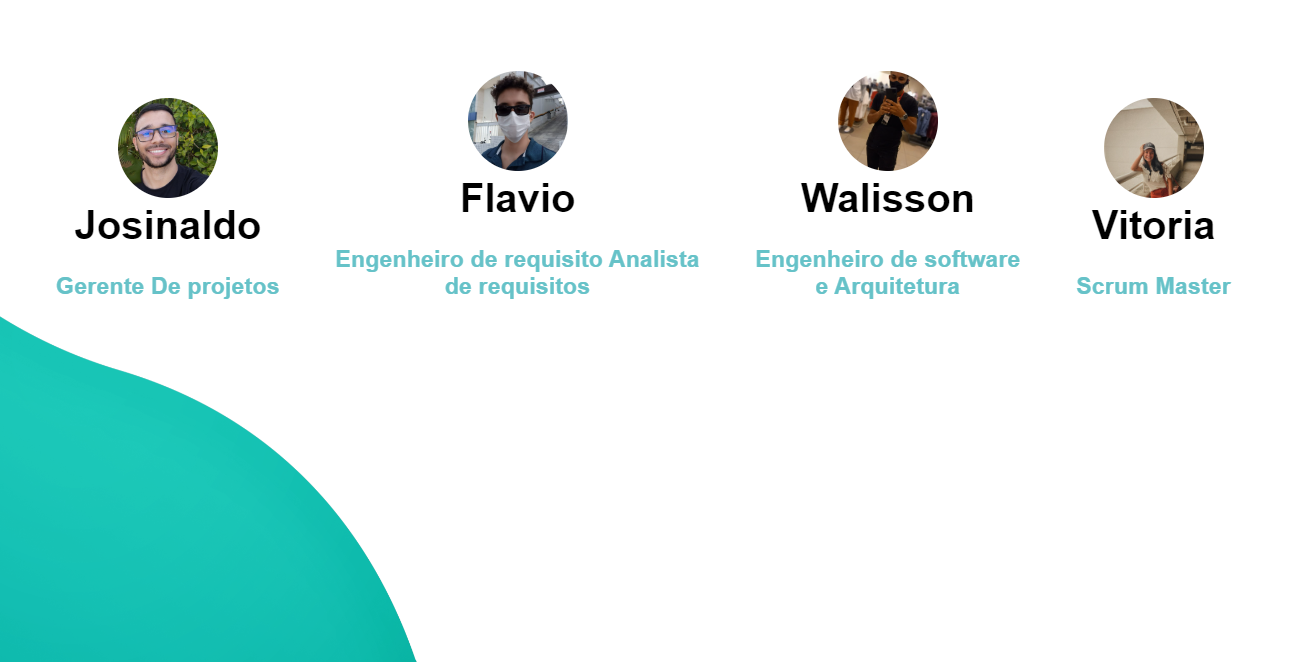
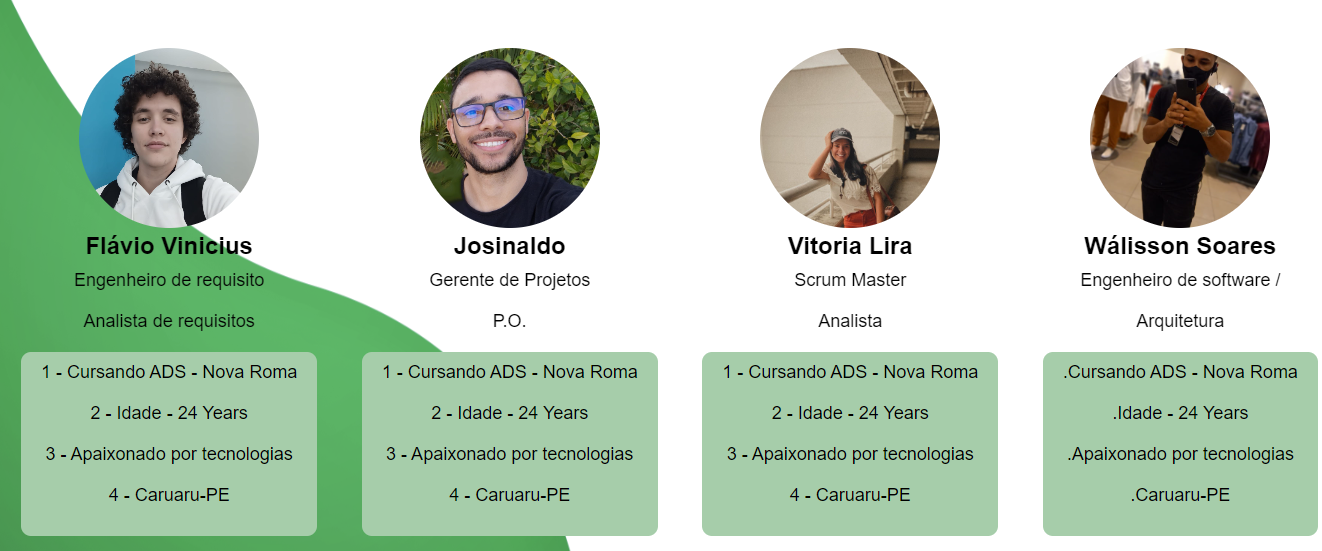
Add files via upload

diff --git a/Projeto/sobre.html b/Projeto/sobre.html
@@ -7,6 +7,7 @@
     <meta name="viewport" content="width=device-width, initial-scale=1.0">
     <link rel="stylesheet" href="css/home.css">
     <link rel="stylesheet" href="css/style.css">
+    <link rel="stylesheet" href="css/equipe.css">
     <link rel="shortcut icon" href="img/slot.svg" type="image/x-icon">
     <title>Denúncia Certa</title>
 
@@ -38,27 +39,49 @@
         </div>
     </div>
     <div tabindex="0" class="content" onfocus="closeSidebar()" id="content">
-        <div class="sobre">
-            <h1>Sobre nós</h1>
-    <h3>Somos uma equipe acadêmica da Faculdade Nova Roma, Unidade Caruaru, do Curso de Análise e Desenvolvimento de Sistema, com o projeto da (ODS) Objetivos de Desenvolvimento Sustentável para a disciplina de Projeto Integrador, com a supervisão do Profª. Geovane com objetivo de desenvolver um projeto que ofereça um lugar publico de denúncias anonimas. </h3>
-</div>
-<div class="valores">
-    <h1>Missão</h1>
-    <h3>Prestar serviço no que diz respeito ao monitoramento do uso eficiente dos recursos hídricos, tal como a manutenção da qualidade da água disponibilizada à população, acompanhamento dos agentes poluentes e etc. Priorizando o atendimento aos nossos clientes, a valorização dos nossos profissionais e os interesses dos acionistas, com excelência operacional, crescendo de maneira sustentável e contribuindo para a qualidade de vida da população.</h3>
-</div>
-<div class="valores">
-    <h1>Visão</h1>
-    <h3>Ser reconhecido pela excelência na prestação de serviços através da qualidade e eficiência, com rigorosa responsabilidade socioambiental, contribuindo para a saúde e o bem-estar da população.</h3>
-</div>
-<div class="valores">
-    <h1>Valores</h1>
-    <h3>Ética: transparência, legalidade, coerência e justiça em tudo que faz.
-        Simplicidade: discrição e garantia de soluções descomplicadas e eficazes.
-        Respeito: aceitação das diferenças, escuta e empatia.
-        Visão de Longo Prazo: pensamento de futuro e sustentabilidade do negócio.
-        Comprometimento: motivação, compromisso e responsabilidade com a organização.
-        Eficiência: excelência em processos, tecnologia e pessoas.Responsabilidade Socioambiental: consciência socioambiental que sustente futuras gerações.</h3>
-</div>
+        <!-- <div class="person">
+            <img src="img/flavio.jfif" alt="Foto da pessoa 1">
+            <h2>Flávio Vinicius</h2>
+            <p>Engenheiro de requisito</p>
+            <p>Analista de requisitos</p>
+            <div class="speech-bubble">
+                <p>1 - Cursando ADS - Nova Roma</p>
+                <p>2 - Idade - 24 Years</p>
+                <p>3 - Apaixonado por tecnologias</p>
+                <p>4 - Caruaru-PE</p>
+            </div>
+          </div> -->
+          
+          <div class="person">
+            <img src="img/1.jpg" alt="Missão da empresa">
+            <h2>Missão</h2>
+                <div class="message2">
+                    <textarea name="message" id="" placeholder="MENSAGEM" rows="5" cols="20">Prestamos serviço em vários setores de verificações de irregularidades, presamos em nosso conceito agilidade, o acompanhamento dos nossos a gentes está ligado ao objetivo de diminuir os gastos de água potável, buracos ou irregularidades em meio ao trânsito e até mesmo problemas ou infrações mais hediondas, temos o objetivo claro de aumentar a qualidade de vida da população brasileira.
+                    </textarea>
+                    <!-- <i class="icons">Denúncias 100% anônimas</i> -->
+                </div>
+
+          </div>
+          
+          <div class="person">
+            <img src="img/2.png" alt="Visão da empresa">
+            <h2>Visão</h2>
+            <div class="message2">
+                <textarea name="message" id="" placeholder="MENSAGEM" rows="5" cols="20">Por meio da ajuda que fornecemos em meios sociais e socioambientais presamos ser reconhecidos para contribuirmos para a saúde mental e bem-estar da nossa amada população. 
+                </textarea>
+                <!-- <i class="icons">Denúncias 100% anônimas</i> -->
+            </div>
+          </div>
+          
+          <div class="person">
+            <img src="img/3.jpg" alt="Valores da empresa">
+            <h2>Valores</h2>
+            <div class="message2">
+                <textarea name="message" id="" placeholder="MENSAGEM" rows="5" cols="20">Ética: transparência, legalidade, coerência e justiça em tudo que faz. Simplicidade: discrição e garantia de soluções descomplicadas e eficazes. Respeito: aceitação das diferenças, escuta e empatia. Visão de Longo Prazo: pensamento de futuro e sustentabilidade do negócio. Comprometimento: motivação, compromisso e responsabilidade com a organização. Eficiência: excelência em processos, tecnologia e pessoas. Responsabilidade Socioambiental: consciência socioambiental que sustente futuras gerações.
+                </textarea>
+                <!-- <i class="icons">Denúncias 100% anônimas</i> -->
+            </div>
+          </div>
 </body>
 <script src="js/js.js"></script>
 </html>

diff --git a/Projeto/paginas.html b/Projeto/paginas.html
@@ -42,11 +42,11 @@
         <a href="agradecimento.html" Target="_blank"><img src="img/test1.png" alt="Agradecimento de denuncia"></a>
         <a href="cadastro.html" Target="_blank"><img src="img/test2.png" alt="Realizar cadastro em site"></a>
         <a href="denuncia.html" Target="_blank"><img src="img/test3.png" alt="canal de denuncias registradas"></a>
-        <a href="equipe.html" Target="_blank"><img src="img/test4.png" alt="Pagina de equipe"></a>
+        <a href="sobre.html" Target="_blank"><img src="img/test9.png" alt="Pagina de equipe"></a>
         <a href="formulario.html" Target="_blank"><img src="img/test5.png" alt="Canal de formulario"></a>
         <a href="index.html" Target="_blank"><img src="img/test6.png" alt="Pagina de login"></a>
-        <a href="recuperar.html" Target="_blank"><img src="img/test1.png" alt="recuperar senha"></a>
-        <a href="senha.html" Target="_blank"><img src="img/test1.png" alt="aviso de envio de dados"></a>
+        <a href="recuperar.html" Target="_blank"><img src="img/test7.png" alt="recuperar senha"></a>
+        <a href="senha.html" Target="_blank"><img src="img/test8.png" alt="aviso de envio de dados"></a>
     </div>
 
 </body>

diff --git a/Projeto/css/equipe.css b/Projeto/css/equipe.css
@@ -1,17 +1,28 @@
+:root{
+  /* textarea */
+  --1: #a6cdaa;
+  /* botões geral form  retangulo  */
+  --2: #52d364;
+  /* botões geral form  retangulo  hover */
+  --3: #84c35f;
+  --4: #72706d;
+  --5: #b1309e;
+  --6: #5f67d1;
+}
 .person {
     padding: 20px;
     display: inline-block;
     flex-direction: column;
     align-items: center;
-    margin-bottom: 50px;
+    margin-bottom: 20px;
   }
   
   .person img {
-    width: 200px;
-    height: 200px;
+    width: 180px;
+    height: 180px;
     border-radius: 50%;
     object-fit: cover;
-    margin-bottom: 30px;
+    margin-bottom: 0px;
   }
   
   .person h2 {
@@ -26,8 +37,9 @@
   }
   
   .speech-bubble {
+    display: inline-block;
     position: relative;
-    background-color: #F7F7F7;
+    background-color: var(--1);
     border-radius: 10px;
     padding: 10px 20px;
   }

diff --git a/Projeto/css/style.css b/Projeto/css/style.css
@@ -51,6 +51,31 @@ html {
     background-color: var(--1);
     transition: 0.5s;
 }
+
+.message2 textarea{
+    overflow: hidden;
+    resize: none;
+    font-family: 'Poppins', Courier, monospace;
+    font-size: 15px;
+    border: none;
+    outline: none;
+    position: relative;
+    left: 10px;
+    width: 360px;
+    height: 320px;
+    background: rgba(36, 160, 222, 0.1);
+    box-shadow: 0px 4px 4px rgba(0, 0, 0, 0.25);
+    justify-content: center;
+    text-align: center;
+}
+
+.message2 textarea:hover{
+    overflow: hidden;
+    padding: 5px;
+    border-radius: 10px;
+    background-color: var(--1);
+    transition: 0.5s;
+}
 .lembrar {
     color: gray;
     font-size: .8em;

diff --git a/Projeto/equipe.html b/Projeto/equipe.html
@@ -84,10 +84,10 @@
             <p>Engenheiro de software /</p>
             <p>Arquitetura</p>
             <div class="speech-bubble">
-              <p>1 - Cursando ADS - Nova Roma</p>
-              <p>2 - Idade - 24 Years</p>
-              <p>3 - Apaixonado por tecnologias</p>
-              <p>4 - Caruaru-PE</p>
+              <p>.Cursando ADS - Nova Roma</p>
+              <p>.Idade - 24 Years</p>
+              <p>.Apaixonado por tecnologias</p>
+              <p>.Caruaru-PE</p>
             </div>
           </div>
 </body>
